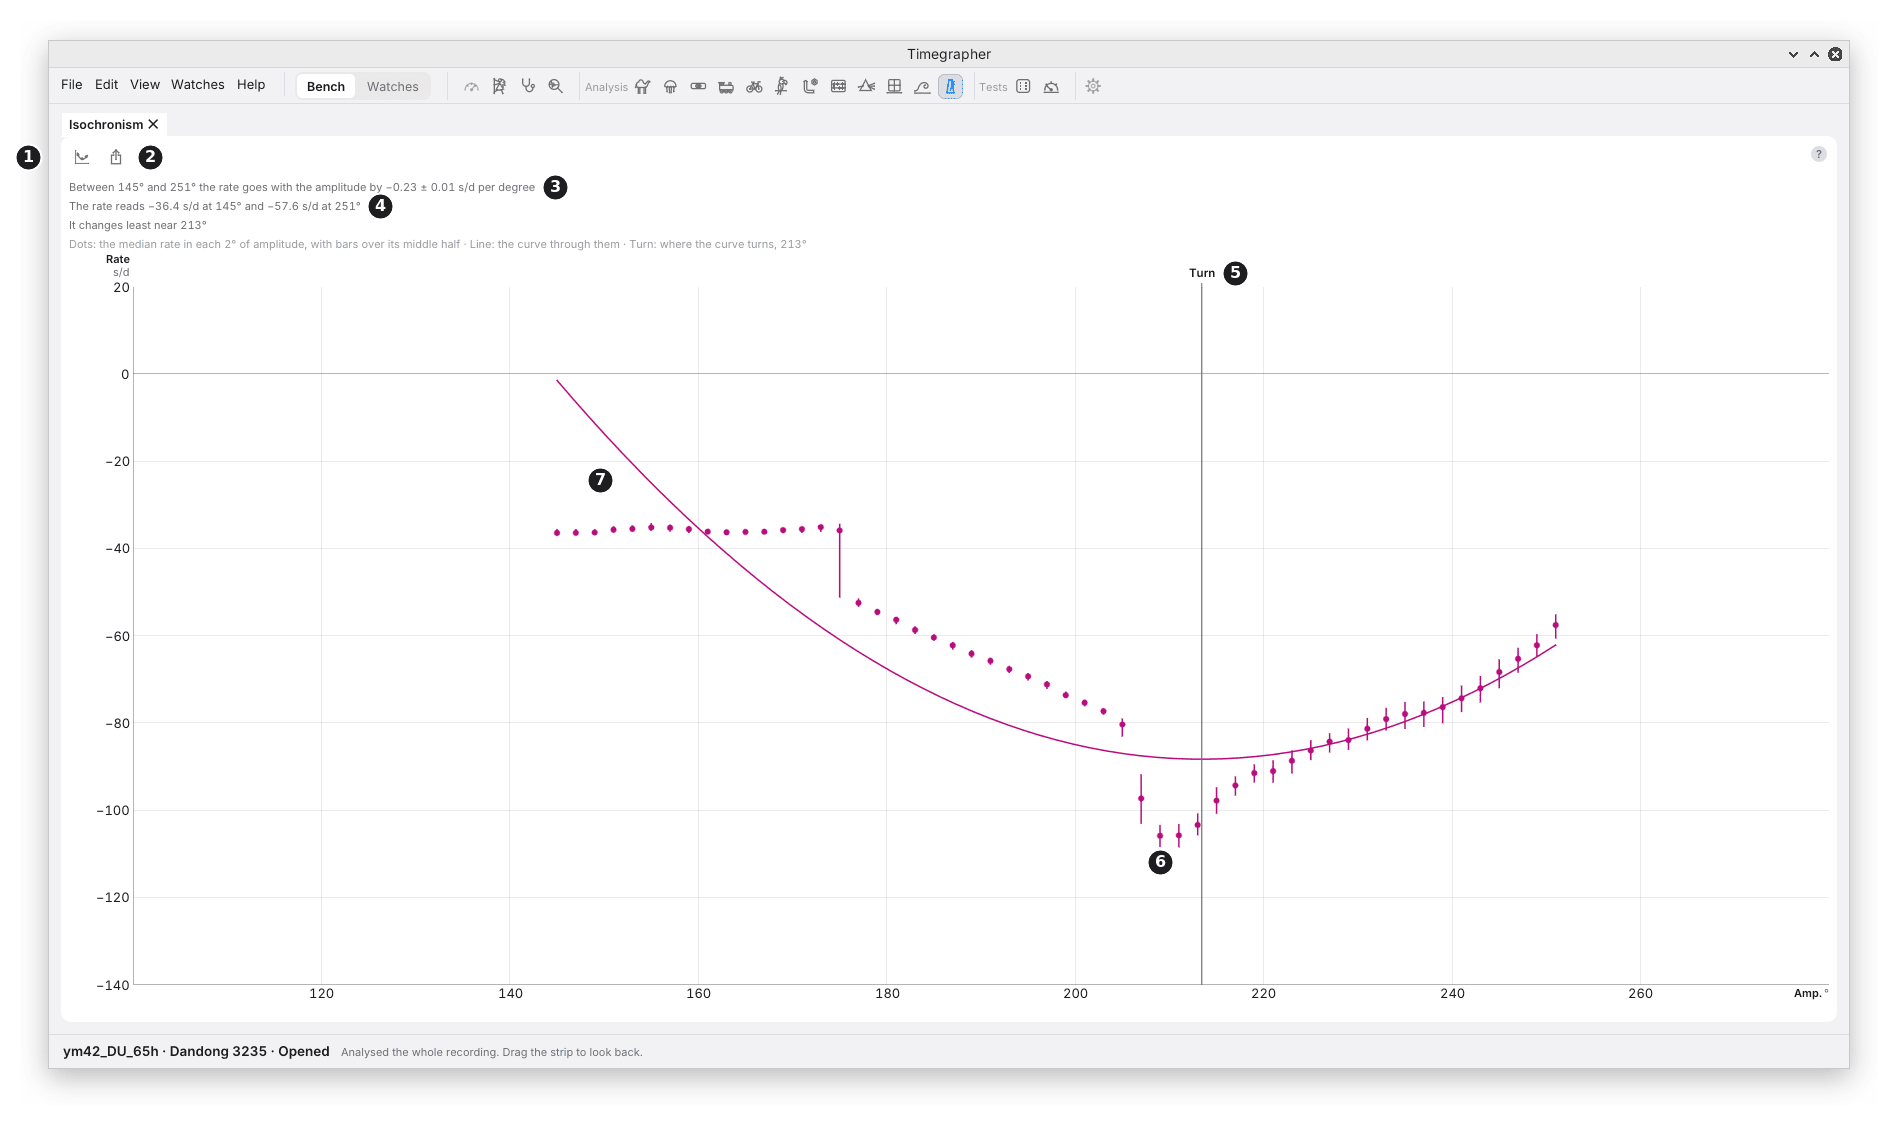
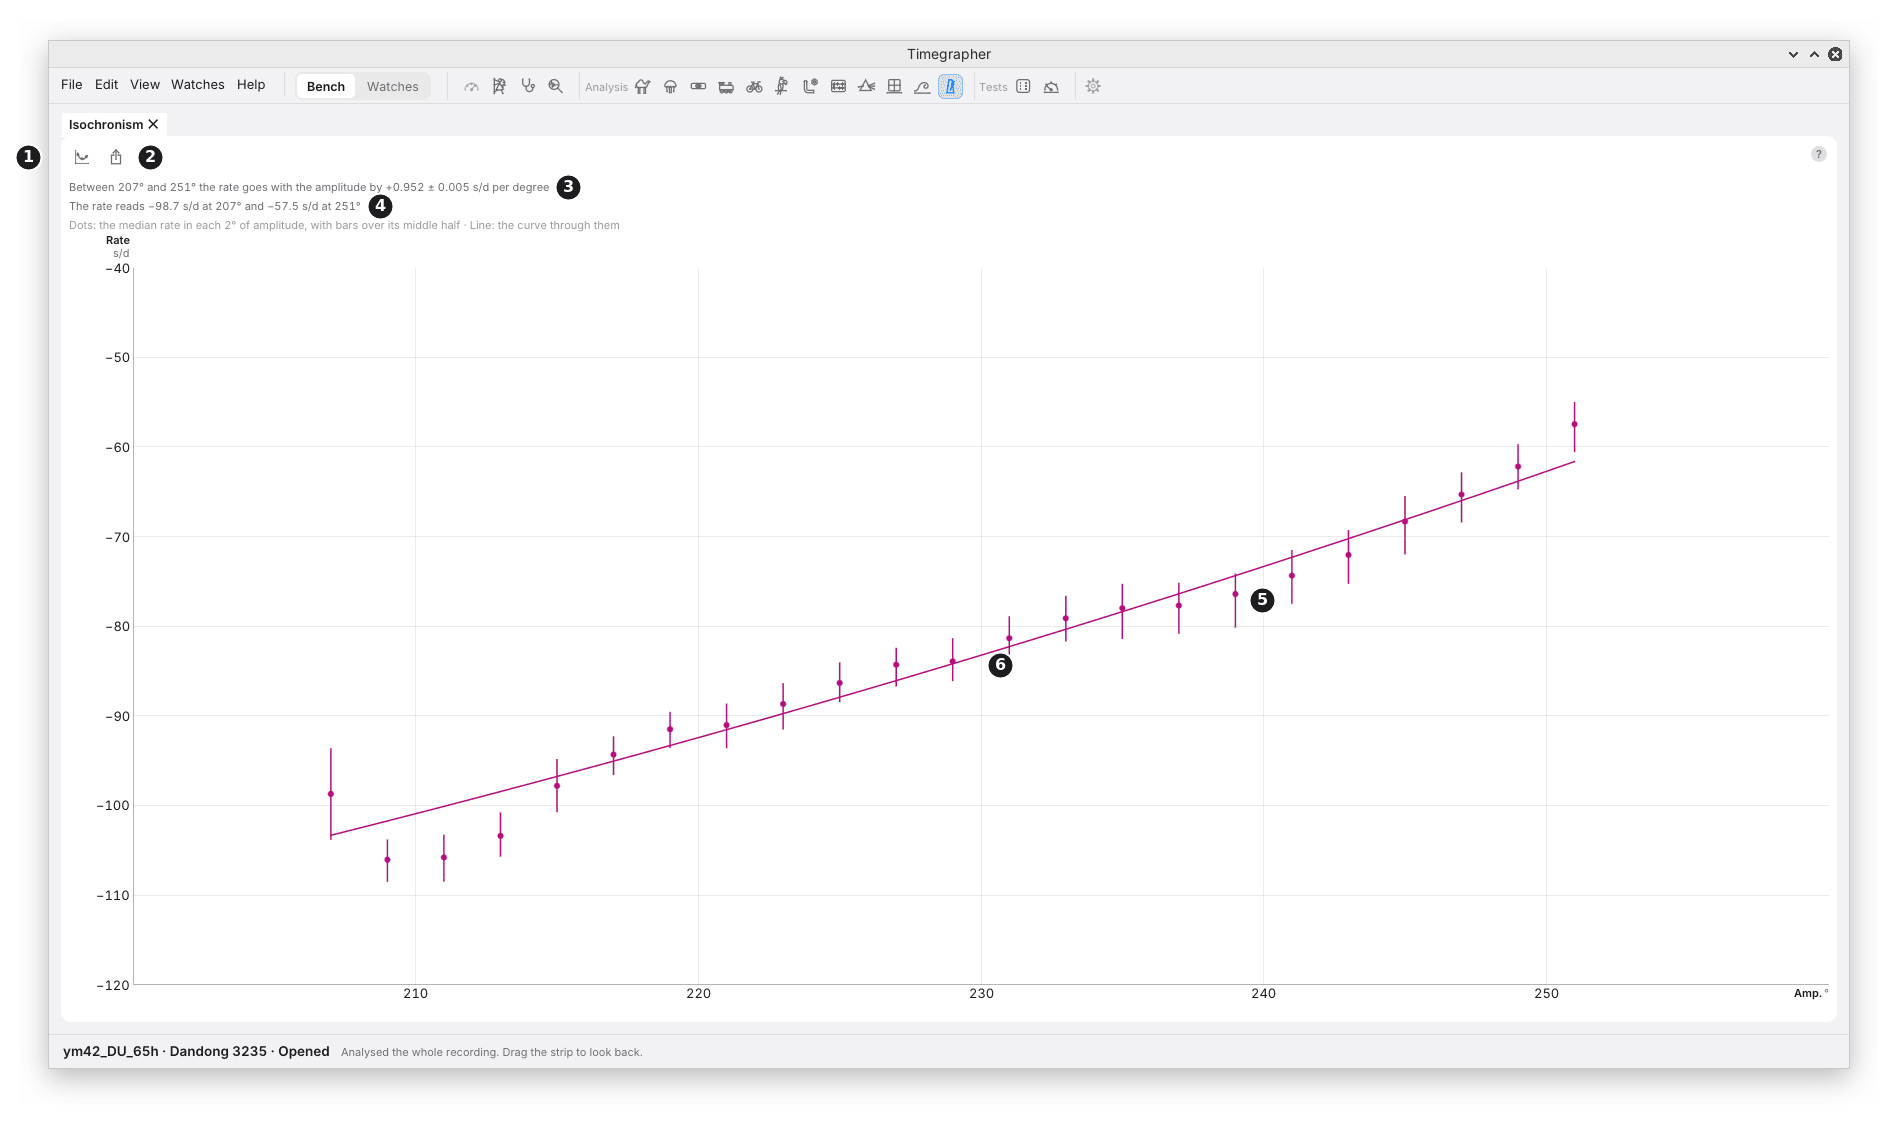
User guide: Walter's figure review (Charts, FFT, Isochronism Curve)
Charts' caption names the rate's jumps at 44 and 51 hours. The FFT is
drawn with Timing on, so the escape wheel's 5 s line stands clear. The
Isochronism Curve reads the first 44 hours, the smooth part of the run;
the Walk keeps the whole take. guide-figures gains a scroll action.

Claude-Session: https://claude.ai/code/session_01QSxqxVf77FmFmJZGMCy8kd

diff --git a/guide-figures/make.py b/guide-figures/make.py
@@ -625,7 +625,8 @@ def app_window(env):
 def act(step, env):
     """One step before the picture: ["click", x, y] (in the window),
     ["drag", x1, y1, x2, y2], ["hover", x, y] (the pointer left there, for a
-    hover), ["key", "ctrl+o"], ["type", "text"], ["sleep", seconds], or (with a
+    hover), ["scroll", x, y, n] (n wheel steps down there, up when negative),
+    ["key", "ctrl+o"], ["type", "text"], ["sleep", seconds], or (with a
     microphone figure) ["stand", "DD"] to turn the watch, ["stand", "off"]
     to take it off."""
     kind = step[0]
@@ -657,6 +658,18 @@ def act(step, env):
                             str(round(x1 + (x2 - x1) * i / 20)), str(round(y1 + (y2 - y1) * i / 20))], env=env)
         time.sleep(0.3)
         subprocess.run(["xdotool", "mouseup", "1"], env=env)
+        time.sleep(0.5)
+        subprocess.run(["xdotool", "mousemove", "0", str(SCREEN[1] - 1)], env=env)
+    elif kind == "scroll":
+        # ["scroll", x, y, n]: the wheel turned n steps down (up when n < 0)
+        # with the pointer at (x, y), such as to show a table's later rows.
+        win = app_window(env)
+        subprocess.run(["xdotool", "mousemove", "--window", win, str(step[1]), str(step[2])], env=env)
+        time.sleep(0.5)
+        button = "5" if step[3] > 0 else "4"
+        for _ in range(abs(step[3])):
+            subprocess.run(["xdotool", "click", button], env=env)
+            time.sleep(0.05)
         time.sleep(0.5)
         subprocess.run(["xdotool", "mousemove", "0", str(SCREEN[1] - 1)], env=env)
     elif kind == "key":

diff --git a/docs/user-guide/19-isochronism.md b/docs/user-guide/19-isochronism.md
@@ -1,6 +1,6 @@
 # 19. Isochronism
 
-![Isochronism, the Curve view, over a whole run-down from full wind to a stop, marks 1 to 7](images/isochronism.png)
+![Isochronism, the Curve view, over the first 44 hours of a run-down from full wind, marks 1 to 6](images/isochronism.png)
 
 **What it shows:** the rate at each amplitude. As the mainspring lets
 down, the balance swings less, and a watch's rate moves with it. The pane
@@ -17,32 +17,35 @@ at which amplitude it changes least. After an adjustment to the
 hairspring, the balance or the escapement, compare it with a take from
 before.
 
-The picture is a whole take of a Dandong 3235, fully wound and left dial
-up until it stopped 59.8 hours later, opened in the app. Its amplitude
-fell from 255° to under 130°, so the pane sees the rate across more than
-a hundred degrees.
+The picture is the first 44 hours of a Dandong 3235, fully wound and
+left dial up until it stopped 59.8 hours later: the part of the run in
+which the amplitude fell smoothly, from 251° to 207°. The Walk view
+below shows the whole run, and why the Curve stops there.
 
 | Mark | Part | What it does or shows |
 | --- | --- | --- |
 | 1 | **View** | **Curve** (this view) or **Walk** (below). Kept between runs. |
 | 2 | **Export…** | Saves the pane as a picture, PNG or SVG. |
-| 3 | The slope | "Between 145° and 251° the rate goes with the amplitude by −0.23 ± 0.01 s/d per degree": a straight line through every reading. |
+| 3 | The slope | "Between 207° and 251° the rate goes with the amplitude by +0.952 ± 0.005 s/d per degree": a straight line through every reading. |
 | 4 | The ends | The median rate in the lowest and the highest 2° step. |
-| 5 | Where it changes least | The amplitude where the curve turns, when that is inside the range. A vertical line marks it. |
-| 6 | A dot and its bar | The median rate in one 2° step of amplitude, and a bar over the middle half of its readings. |
-| 7 | The curve | A quadratic through the dots, each weighted by its readings. |
+| 5 | A dot and its bar | The median rate in one 2° step of amplitude, and a bar over the middle half of its readings. |
+| 6 | The curve | A quadratic through the dots, each weighted by its readings. |
 
-**In the picture,** from 251° down to about 211° the dots fall in a
-smooth line, from −58 to about −105 s/d: this watch loses about 1.2 s/d
-more for each degree of amplitude it loses. That is its isochronism over
-the first 40 hours or so of the wind, and the figure an adjustment of
-the hairspring or the escapement would aim to flatten. Below 211° the
-dots break from the curve: at about 207° and again at about 175° the
-rate jumps faster by 15 to 30 s/d within a few degrees, and below 173°
-it stays near −36 s/d. The single slope, −0.23 s/d per degree, and the
-quadratic both sum that up poorly. The ends, −36.4 s/d at 145° and
-−57.6 s/d at 251°, and the turn at 213° are worked out as below; the
-Walk view shows when the jumps came.
+**Where it changes least:** when the curve turns inside the range, a
+third line gives the amplitude where it turns ("It changes least near
+213°"), and a vertical line marks it. In the picture the curve doesn't
+turn, so neither is shown.
+
+**In the picture,** the dots climb in a near-straight line from
+−98.7 s/d at 207° to −57.5 s/d at 251°, and the curve runs through
+nearly every bar: the slope is +0.952 ± 0.005 s/d per degree. This watch
+loses about 1 s/d more for each degree of amplitude it loses, so over
+these 44 hours of the wind its rate moved by 40 s/d. That is its
+isochronism, the figure an adjustment of the hairspring or the
+escapement would aim to flatten, and a take from after the adjustment,
+read the same way, shows how far it moved. The three lowest steps sit a
+few s/d under the line just above 207°: the start of what the Walk view
+shows next.
 
 ## The Walk View
 
@@ -73,8 +76,9 @@ a slower rate, the smooth part of the curve, with the 12 h, 24 h and
 207° (at about 44 hours) and near 174° (at about 51 hours) the rate
 gains 15 to 30 s/d while the amplitude hardly moves. Those jumps don't
 follow the amplitude: something else changed the rate at those
-moments, and the Curve view, which has no time in it, can't tell them
-apart from it. From about 52 hours the rate holds near −36 s/d down to
+moments. A Curve view over the whole run, which has no time in it,
+would fold them in with the isochronism and bend the curve, which is
+why the picture above stops at 44 hours. From about 52 hours the rate holds near −36 s/d down to
 140°, and the walk ends at 124° at 58 hours. Charts (chapter 8) and the
 Paper Strip show what happened at those hours.
 

diff --git a/docs/user-guide/16-fft.md b/docs/user-guide/16-fft.md
@@ -1,6 +1,6 @@
 # 16. FFT (Fast Fourier Transform)
 
-![FFT of the rate over the first 12 hours of a run-down, marks 1 to 6](images/steady-fft.png)
+![FFT of the rate's beat timing, Timing on, over the first 12 hours of a run-down, marks 1 to 6](images/steady-fft.png)
 
 **What it shows:** the **amplitude spectrum** of each series, worked out
 by the **Fast Fourier Transform** (FFT), the standard way to split a
@@ -21,7 +21,7 @@ another timegrapher), this is where you read its size.
 | 1 | **Timing** | For the rate: draws the spectrum of the beat timing itself, in ms, at every period, in place of the swing in rate readings. Off at first, and greyed while Rate is off. |
 | 2 | **Wheel Periods** | Marks the calibre's wheels' periods. On at first; this pane only. With no calibre picked, or none of its wheels known, it marks one minute and one hour in grey instead. |
 | 3 | The input line | How much of the series the spectrum was read from: "FFT input: 172584 of 172717 grid samples available", and how missing samples were handled. |
-| 4 | The tallest peak | The highest point above both its neighbours, with its period and size: "tallest peak at 4 min: 5.3 s/d peak to peak". |
+| 4 | The tallest peak | The highest point above both its neighbours, with its period and size: "tallest peak at 30 min: 2.9 ms", or for the rate readings, "tallest peak at 4 min: 5.3 s/d peak to peak". |
 | 5 | Twice a turn | A fainter dotted line marked ×2, at half a wheel's period. |
 | 6 | A wheel's period | A bold dotted line, named above the plot. |
 
@@ -43,17 +43,20 @@ shows the swing as the beats have it, including periods far faster than
 a reading, such as the escape wheel's 5 s.
 
 **In the picture** are the first 12 hours of the Dandong 3235 run-down
-from chapter 8. Most of the spectrum lies between about 0.3 and 1 s/d:
-the readings' random scatter, spread over every period. Standing clear
-of it, each on its dotted line, are the fourth wheel's minute and its
-half minute, each about 3 s/d peak to peak, and the tallest peak, at
-4 minutes, 5.3 s/d: the cycle that Cycle (chapter 12) folds, which
-matches no wheel of the calibre. Twelve hours of readings place each
-period finely, so a line is narrow and sits exactly where it is; the
-neighbouring spikes of 1 to 3 s/d are what a take this long resolves of
-the scatter. Periods (chapter 11) tests each line; on this take it
-keeps none. The escape wheel's 5 s is under the 20 s the rate readings can
-show, so it is in the Timing spectrum only.
+from chapter 8, with **Timing** on: the swing of the beat timing itself,
+from 1 s up. The floor rises from about 0.002 ms at a few seconds to
+about 1 ms at an hour: the slower the swing, the further the timing
+wanders, and the tallest peak, at 30 minutes, is that slow wander. Out of
+the floor at the short end rises one narrow line, exactly on the escape
+wheel's mark: 0.05 ms at 5 s, about twenty times its neighbours. It is
+the escape wheel, once a turn, steady enough over 12 hours to stand that
+clear, and far too fast for any rate reading to show. The fourth wheel's
+minute stands out too, about 0.2 ms, with a line at its half minute.
+Periods (chapter 11) tests each line; on this take it keeps none, though
+it scores the 5 s line tallest. With **Timing** off, the same take's
+rate readings give their own spectrum from 20 s up, tallest at
+4 minutes, 5.3 s/d peak to peak: the cycle that Cycle (chapter 12)
+folds.
 
 ## How It Is Worked Out
 

diff --git a/docs/user-guide/08-charts-and-distributions.md b/docs/user-guide/08-charts-and-distributions.md
@@ -37,8 +37,14 @@ from about 255° to 145°, the mainspring letting down. The rate does not
 simply follow it: it settles near −65 s/d after the first hour, drifts
 to about −100 s/d by 42 hours, then climbs to about −40 s/d as the
 amplitude falls fastest. At about 15 hours the rate and the amplitude
-step down together, and at about 33 hours both dip and recover: moments
-a card read now and then would miss, and the place to look on the strip. The beat error from the unlock grows from about 0.4 to
+step down together, and at about 33 hours both dip and recover. Twice
+more the rate jumps on its own: at about 44 hours it climbs by some
+20 s/d within an hour, and at about 51 hours it steps up by about 15 s/d
+at once, while the amplitude line runs on smoothly through both. A rate
+that moves with no change in amplitude points at something other than
+the mainspring; Isochronism's Walk view (chapter 19) shows the same two
+jumps. These are moments a card read now and then would miss, and the
+places to look on the strip. The beat error from the unlock grows from about 0.4 to
 0.55 ms. Isochronism (chapter 19) puts the rate against the amplitude
 directly, and the Power Reserve Test (chapter 21) gives the same run
 hour by hour.

diff --git a/guide-figures/README.md b/guide-figures/README.md
@@ -49,7 +49,8 @@ Each figure is a TOML file:
   for a control too crowded to put the mark beside.
 - `actions`: steps before the picture: `["click", x, y]` (in the window,
   below its title bar), `["drag", x1, y1, x2, y2]`, `["hover", x, y]` (the
-  pointer left there, to show a hover), `["key", "ctrl+o"]`, `["type", "text"]`,
+  pointer left there, to show a hover), `["scroll", x, y, n]` (n wheel
+  steps down at that point, up when negative), `["key", "ctrl+o"]`, `["type", "text"]`,
   `["sleep", s]`, and with a microphone `["stand", "DD"]` to turn the
   watch or `["stand", "off"]` to take it off. A figure whose actions use
   the stand starts with the stand empty.
